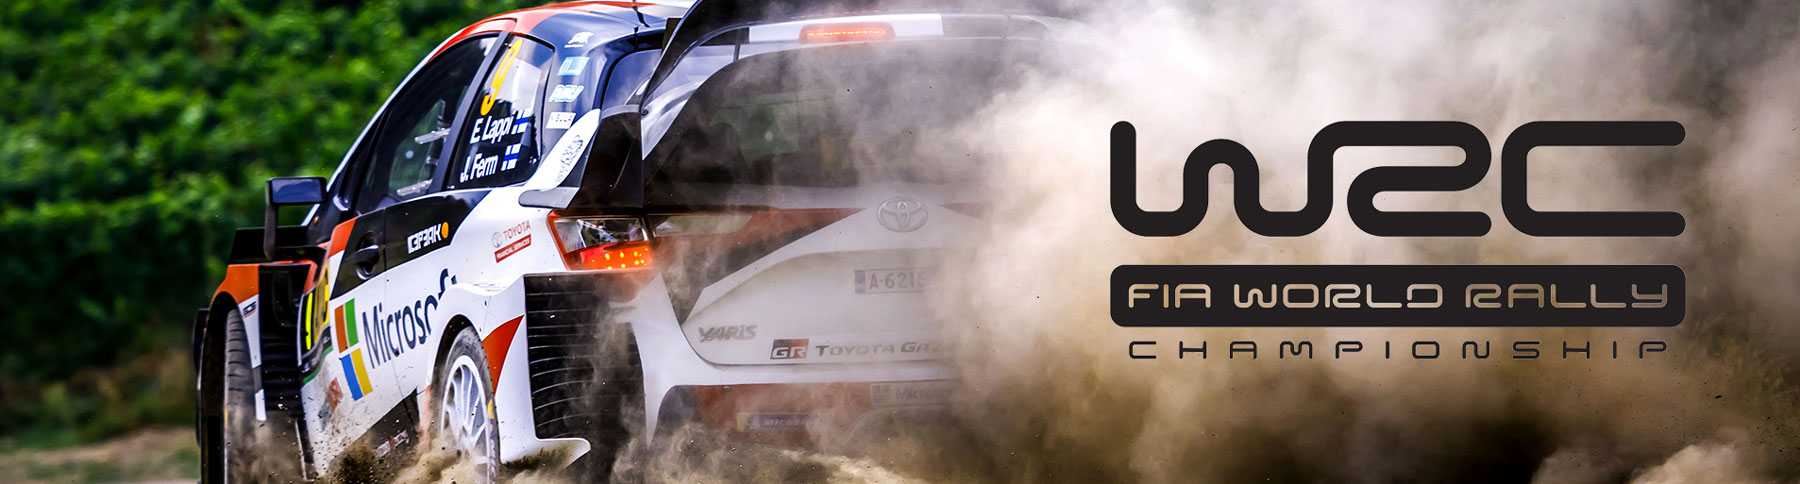
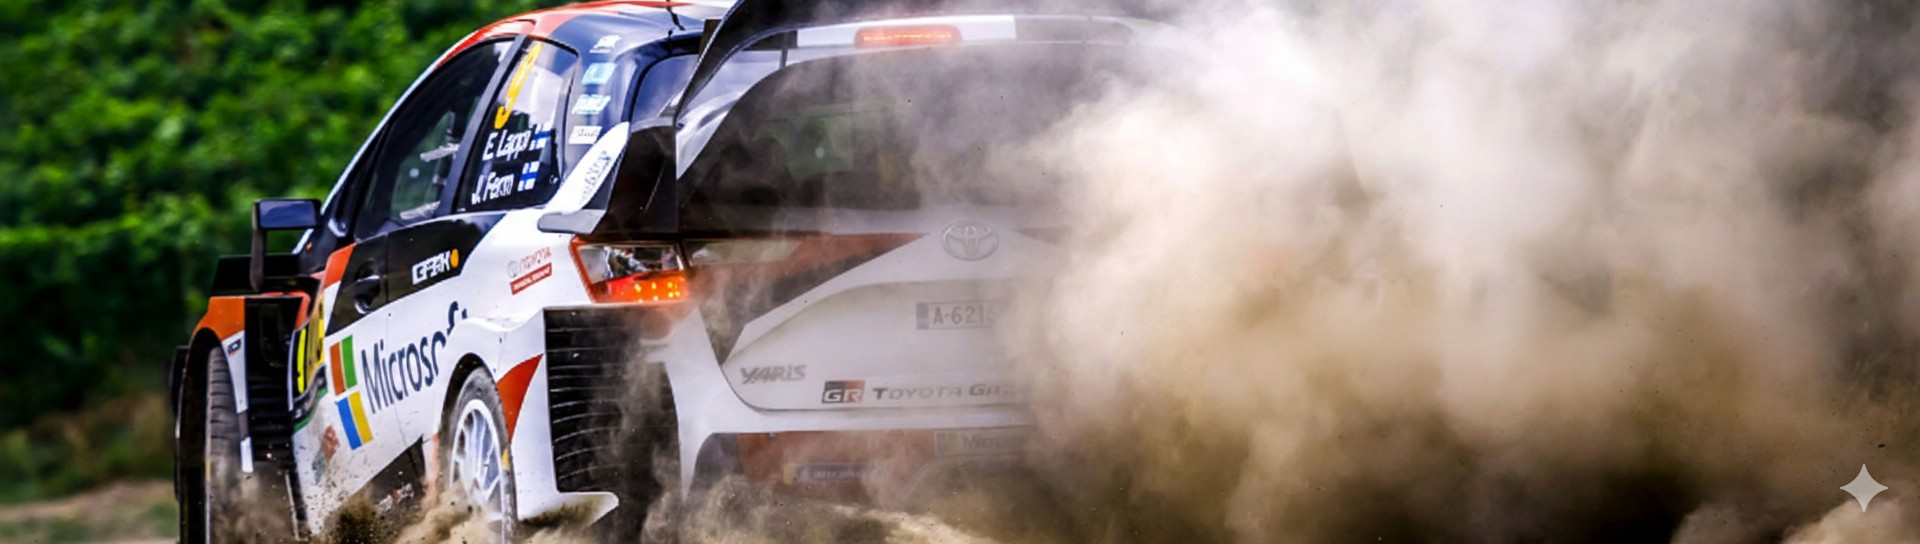
remplacer la banniere

diff --git a/styles.css b/styles.css
@@ -32,9 +32,9 @@ body{
 
 .hero{padding:3.2rem 0;background:linear-gradient(120deg, rgba(11,70,165,0.06) 0%, rgba(200,16,46,0.03) 50%, rgba(11,70,165,0.02) 100%);position:relative;overflow:hidden;min-height:400px;display:flex;align-items:center;justify-content:center}
 .hero:before{content:"";position:absolute;right:-20%;top:-10%;width:140%;height:220px;background:linear-gradient(120deg,rgba(11,70,165,0.12) 0%, rgba(200,16,46,0.12) 50%, rgba(11,70,165,0.08) 100%);transform:rotate(-8deg);filter:blur(14px);}
-.hero-content{position:relative;z-index:2;padding:3rem 0}
-.site-title{font-size:3.5rem;margin:0 0 .5rem;color:#fff}
-.lead{margin:0 0 1rem;color:#fff}
+.hero-content{position:relative;z-index:2;padding:3rem 0;display:flex;flex-direction:column;align-items:flex-end;text-align:right;width:100%}
+.site-title{font-size:3.5rem;margin:0 0 .5rem;color:#fff;text-shadow:0 6px 20px rgba(0,0,0,0.65);display:block;padding:0.25rem 0.8rem;border-radius:8px;background:rgba(0,0,0,0.35);max-width:760px}
+.lead{margin:0 0 1rem;color:#fff;text-shadow:0 4px 12px rgba(0,0,0,0.6);display:block;padding:0.2rem 0.6rem;border-radius:6px;background:rgba(0,0,0,0.32);max-width:760px}
 
 .section{padding:2rem 0}
 .section-title{font-size:1.4rem;margin:0 0 1rem;color:var(--accent-dark)}
@@ -145,7 +145,7 @@ img{max-width:100%;height:auto;display:block}
   .container{padding:1rem}
   .site-title{font-size:2.2rem}
   .hero{min-height:240px;padding:1.4rem 0}
-  .hero-content{padding:1rem 0}
+  .hero-content{padding:1rem 0;align-items:center;text-align:center}
 }
 
 @media (max-width:420px){
